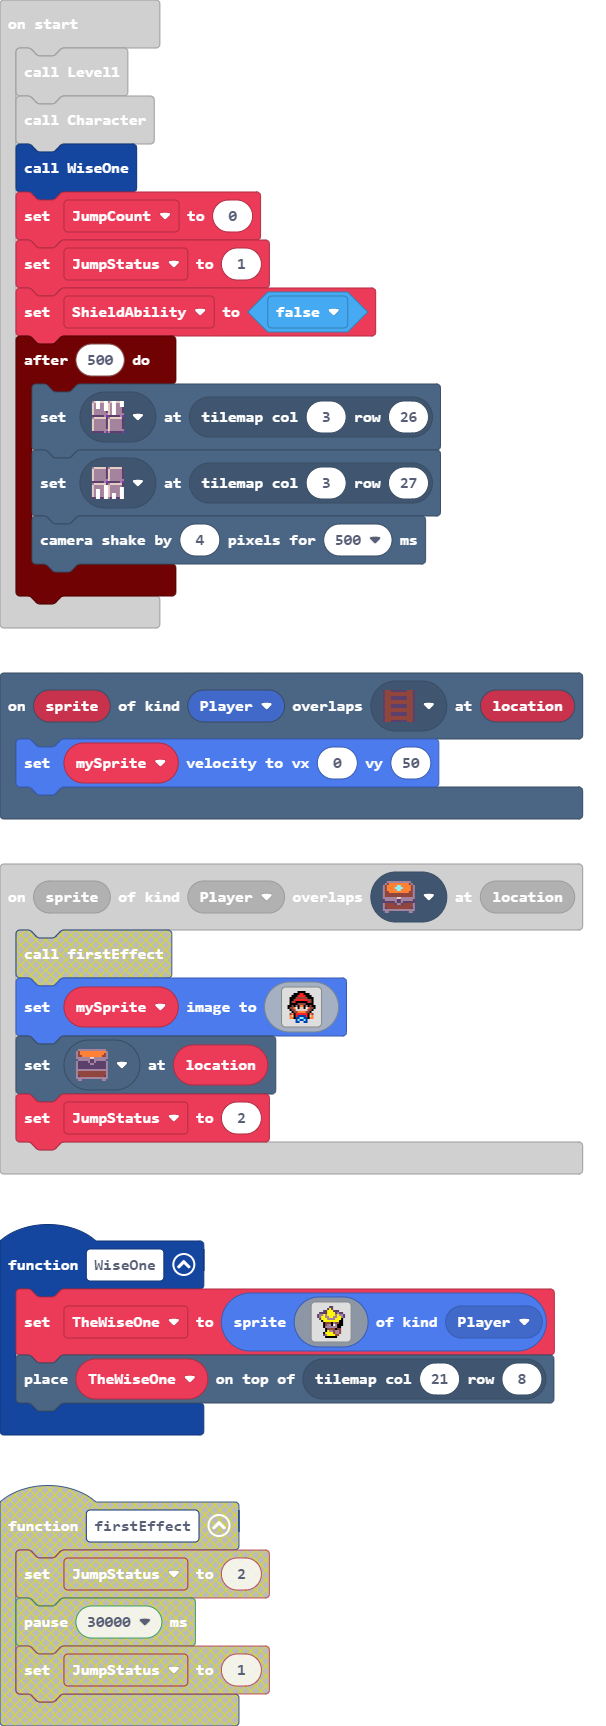
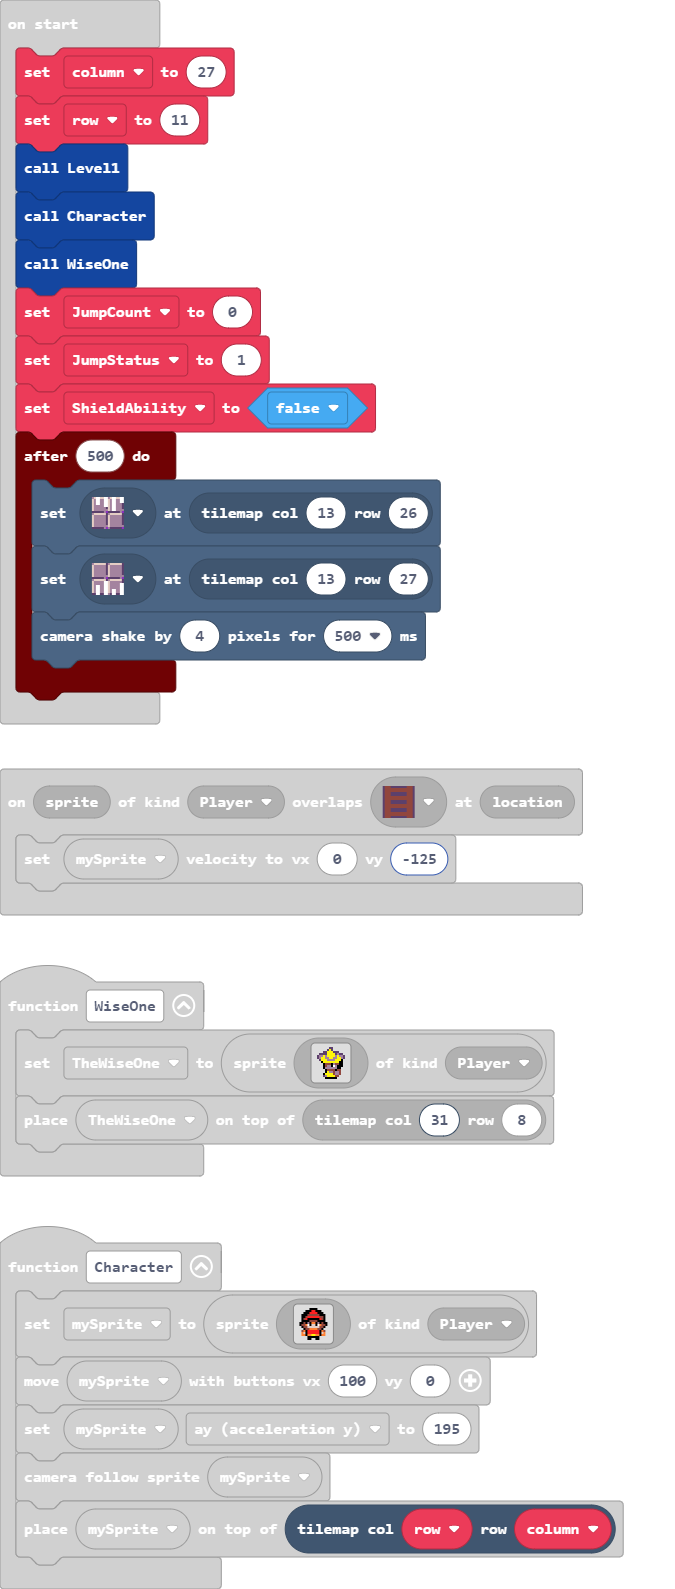
initilization of boss fight areana

diff --git a/tilemap.g.ts b/tilemap.g.ts
@@ -36,42 +36,86 @@ namespace myTiles {
     export const tile14 = image.ofBuffer(hex``);
     //% fixedInstance jres blockIdentity=images._tile
     export const tile17 = image.ofBuffer(hex``);
+    //% fixedInstance jres blockIdentity=images._tile
+    export const tile18 = image.ofBuffer(hex``);
+    //% fixedInstance jres blockIdentity=images._tile
+    export const tile19 = image.ofBuffer(hex``);
+    //% fixedInstance jres blockIdentity=images._tile
+    export const tile20 = image.ofBuffer(hex``);
+    //% fixedInstance jres blockIdentity=images._tile
+    export const tile21 = image.ofBuffer(hex``);
+    //% fixedInstance jres blockIdentity=images._tile
+    export const tile22 = image.ofBuffer(hex``);
+    //% fixedInstance jres blockIdentity=images._tile
+    export const tile23 = image.ofBuffer(hex``);
+    //% fixedInstance jres blockIdentity=images._tile
+    export const tile24 = image.ofBuffer(hex``);
+    //% fixedInstance jres blockIdentity=images._tile
+    export const tile25 = image.ofBuffer(hex``);
+    //% fixedInstance jres blockIdentity=images._tile
+    export const tile26 = image.ofBuffer(hex``);
+    //% fixedInstance jres blockIdentity=images._tile
+    export const tile27 = image.ofBuffer(hex``);
+    //% fixedInstance jres blockIdentity=images._tile
+    export const tile28 = image.ofBuffer(hex``);
+    //% fixedInstance jres blockIdentity=images._tile
+    export const tile29 = image.ofBuffer(hex``);
+    //% fixedInstance jres blockIdentity=images._tile
+    export const tile30 = image.ofBuffer(hex``);
+    //% fixedInstance jres blockIdentity=images._tile
+    export const tile31 = image.ofBuffer(hex``);
+    //% fixedInstance jres blockIdentity=images._tile
+    export const tile34 = image.ofBuffer(hex``);
+    //% fixedInstance jres blockIdentity=images._tile
+    export const tile35 = image.ofBuffer(hex``);
+    //% fixedInstance jres blockIdentity=images._tile
+    export const tile36 = image.ofBuffer(hex``);
+    //% fixedInstance jres blockIdentity=images._tile
+    export const tile38 = image.ofBuffer(hex``);
+    //% fixedInstance jres blockIdentity=images._tile
+    export const tile39 = image.ofBuffer(hex``);
+    //% fixedInstance jres blockIdentity=images._tile
+    export const tile37 = image.ofBuffer(hex``);
+    //% fixedInstance jres blockIdentity=images._tile
+    export const tile33 = image.ofBuffer(hex``);
+    //% fixedInstance jres blockIdentity=images._tile
+    export const tile32 = image.ofBuffer(hex``);
 
     helpers._registerFactory("tilemap", function(name: string) {
         switch(helpers.stringTrim(name)) {
             case "level1":
[1 lines of base64/hex data omitted]
-2..................2...............
-2..................2...............
-2..................2...............
-2..................2...............
-2..................2...............
-2..................2...............
-2..................222222222.......
-2..........................2.......
-2..........................2.......
-2............2222222222222.2.......
-2............2.....2222222.2.......
-2............2.....2222222.22222222
-2............2.....2.....2.........
-2............2.....2.....22......2.
-2............2.....2.....2.......2.
-2..........222.....2.....2.......2.
-2............2...222.....2.......2.
-2.....2......2.....2.....2.......2.
-2.....2......2.....2.....2.......2.
-2.....2......22....2.....2.......2.
-2.....2......2....22.....2.......2.
-2............2.....2.....2.......2.
-2.......222..2.....2.....2.......2.
-2............2...2.2.....2.......2.
-2............2.....2.....2.......2.
-2222...............2.....2.......2.
-2..............222.2.....2.......2.
-2..................2.....2.......2.
-22222222222222222222.....2.......2.
-22222222222222222222.....2.........
-`, [myTiles.transparency16,sprites.dungeon.floorDark0,sprites.dungeon.floorDarkDiamond,sprites.dungeon.darkGroundNorth,sprites.dungeon.darkGroundNorthEast0,sprites.dungeon.darkGroundSouthEast0,sprites.dungeon.darkGroundSouth,sprites.dungeon.darkGroundSouthWest0,sprites.dungeon.darkGroundNorthWest0,sprites.dungeon.doorOpenWest,sprites.dungeon.doorClosedEast,myTiles.tile2,sprites.dungeon.doorClosedSouth,myTiles.tile1,sprites.dungeon.floorLight0,sprites.dungeon.floorLight1,sprites.dungeon.doorClosedNorth,myTiles.tile3,myTiles.tile4,myTiles.tile5,myTiles.tile6,myTiles.tile7,sprites.dungeon.doorClosedWest,myTiles.tile12,sprites.dungeon.stairEast,myTiles.tile14,myTiles.tile15,myTiles.tile16,sprites.dungeon.darkGroundCenter,sprites.dungeon.darkGroundWest,sprites.dungeon.darkGroundEast,sprites.builtin.forestTiles10,myTiles.tile17], TileScale.Sixteen);
[1 lines of base64/hex data omitted]
+...................22222222222................
+...................2.........2................
+...................2.........2................
+...................2.........2................
+...................2.........2................
+...................2.........2................
+...................2.........222222222........
+...................2.................2........
+...................2.................2........
+...................2...2222222222222.2........
+...................2...2.....2222222.2........
+...................2...2.....2222222.222222222
+...................2...2.....2.....2.........2
+..........2222222222...2.....2.....22......2.2
+..........2............2.....2.....2.......2.2
+..........2..........222.....2.....2.......2.2
+..........2............2...222.....2.......2.2
+..........2.....2......2.....2.....2.......2.2
+..........2.....2......2.....2.....2.......2.2
+.....222222.....2......22....2.....2.......2.2
+................2......2....22.....2.......2.2
+.......................2.....2.....2.......2.2
+..................222..2.....2.....2.......2.2
+.....2222222...........2...2.2.....2.......2.2
+..........2............2.....2.....2.......2.2
+..........2222...............2.....2.......2.2
+..........2..............222.2.....2.......2.2
+..........2..................2.....2.......2.2
+..........22222222222222222222.....2.........2
+..........22222222222222222222.....22222222222
+`, [myTiles.transparency16,sprites.dungeon.floorDark0,sprites.dungeon.floorDarkDiamond,sprites.dungeon.darkGroundNorth,sprites.dungeon.darkGroundNorthEast0,sprites.dungeon.darkGroundSouthEast0,sprites.dungeon.darkGroundSouth,sprites.dungeon.darkGroundSouthWest0,sprites.dungeon.darkGroundNorthWest0,sprites.dungeon.doorOpenWest,sprites.dungeon.doorClosedEast,myTiles.tile2,sprites.dungeon.doorClosedSouth,myTiles.tile1,sprites.dungeon.floorLight0,sprites.dungeon.floorLight1,sprites.dungeon.doorClosedNorth,myTiles.tile3,myTiles.tile4,myTiles.tile5,myTiles.tile6,myTiles.tile7,sprites.dungeon.doorClosedWest,myTiles.tile12,sprites.dungeon.stairEast,myTiles.tile14,myTiles.tile15,myTiles.tile16,sprites.dungeon.darkGroundCenter,sprites.dungeon.darkGroundWest,sprites.dungeon.darkGroundEast,sprites.builtin.forestTiles10,myTiles.tile17,sprites.dungeon.darkGroundSouthWest1,sprites.dungeon.darkGroundNorthEast1,myTiles.tile18,sprites.castle.tilePath5,myTiles.tile20,myTiles.tile21,myTiles.tile22,myTiles.tile23,myTiles.tile24,myTiles.tile25,myTiles.tile26,myTiles.tile27,myTiles.tile28,sprites.builtin.forestTiles18,myTiles.tile30,myTiles.tile31,sprites.castle.tilePath2,sprites.castle.tileGrass1,myTiles.tile32,myTiles.tile33,myTiles.tile34,sprites.castle.tileGrass3,myTiles.tile35,myTiles.tile36,myTiles.tile37,myTiles.tile38,myTiles.tile39], TileScale.Sixteen);
         }
         return null;
     })
@@ -113,6 +157,50 @@ namespace myTiles {
             case "tile14":return tile14;
             case "myTile15":
             case "tile17":return tile17;
+            case "myTile16":
+            case "tile18":return tile18;
+            case "myTile17":
+            case "tile19":return tile19;
+            case "myTile18":
+            case "tile20":return tile20;
+            case "myTile19":
+            case "tile21":return tile21;
+            case "myTile20":
+            case "tile22":return tile22;
+            case "myTile21":
+            case "tile23":return tile23;
+            case "myTile22":
+            case "tile24":return tile24;
+            case "myTile23":
+            case "tile25":return tile25;
+            case "myTile24":
+            case "tile26":return tile26;
+            case "myTile25":
+            case "tile27":return tile27;
+            case "myTile26":
+            case "tile28":return tile28;
+            case "myTile27":
+            case "tile29":return tile29;
+            case "myTile28":
+            case "tile30":return tile30;
+            case "myTile29":
+            case "tile31":return tile31;
+            case "myTile32":
+            case "tile34":return tile34;
+            case "myTile33":
+            case "tile35":return tile35;
+            case "myTile34":
+            case "tile36":return tile36;
+            case "myTile36":
+            case "tile38":return tile38;
+            case "myTile37":
+            case "tile39":return tile39;
+            case "myTile35":
+            case "tile37":return tile37;
+            case "myTile31":
+            case "tile33":return tile33;
+            case "myTile30":
+            case "tile32":return tile32;
         }
         return null;
     })

diff --git a/main.ts b/main.ts
@@ -29,10 +29,10 @@ function WiseOne () {
         . . . . c b 5 5 5 5 e e . . . . 
         . . . . . f f f f f f . . . . . 
         `, SpriteKind.Player)
-    tiles.placeOnTile(TheWiseOne, tiles.getTileLocation(21, 8))
+    tiles.placeOnTile(TheWiseOne, tiles.getTileLocation(31, 8))
 }
 scene.onOverlapTile(SpriteKind.Player, assets.tile`myTile15`, function (sprite, location) {
-    mySprite.setVelocity(0, 50)
+    mySprite.setVelocity(0, -125)
 })
 scene.onOverlapTile(SpriteKind.Player, assets.tile`myTile13`, function (sprite, location) {
     tiles.setTileAt(location, assets.tile`myTile6`)
@@ -78,7 +78,7 @@ function Character () {
     controller.moveSprite(mySprite, 100, 0)
     mySprite.ay = 195
     scene.cameraFollowSprite(mySprite)
-    tiles.placeOnTile(mySprite, tiles.getTileLocation(1, 27))
+    tiles.placeOnTile(mySprite, tiles.getTileLocation(row, column))
 }
 controller.A.onEvent(ControllerButtonEvent.Pressed, function () {
     if (true) {
@@ -115,6 +115,10 @@ let TheWiseOne: Sprite = null
 let mySprite: Sprite = null
 let JumpStatus = 0
 let JumpCount = 0
+let row = 0
+let column = 0
+column = 27
+row = 11
 Level1()
 Character()
 WiseOne()
@@ -122,8 +126,8 @@ JumpCount = 0
 JumpStatus = 1
 let ShieldAbility = false
 timer.after(500, function () {
-    tiles.setTileAt(tiles.getTileLocation(3, 26), assets.tile`myTile8`)
-    tiles.setTileAt(tiles.getTileLocation(3, 27), assets.tile`myTile7`)
+    tiles.setTileAt(tiles.getTileLocation(13, 26), assets.tile`myTile8`)
+    tiles.setTileAt(tiles.getTileLocation(13, 27), assets.tile`myTile7`)
     scene.cameraShake(4, 500)
 })
 forever(function () {
